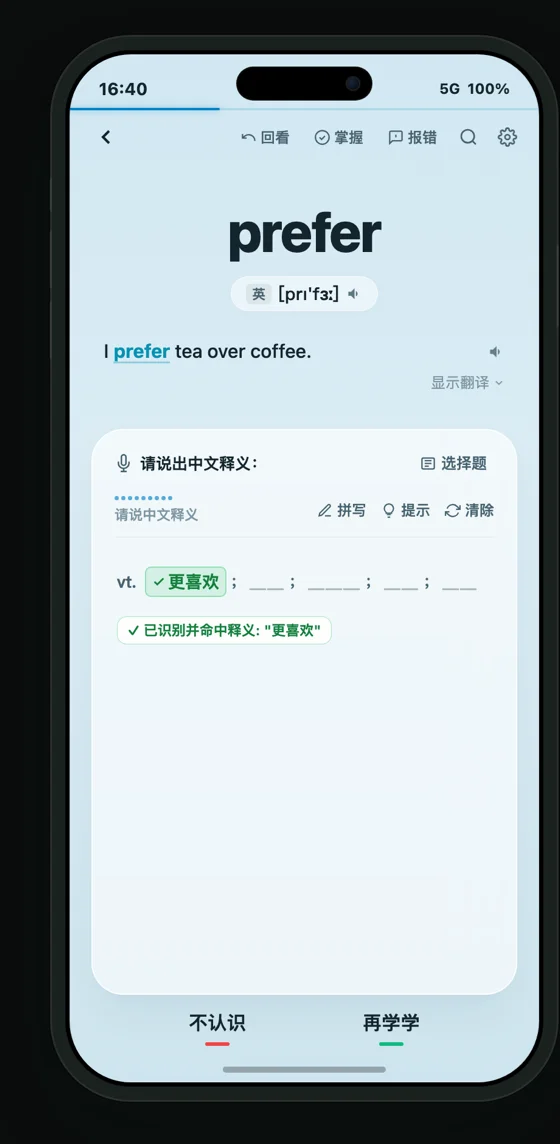
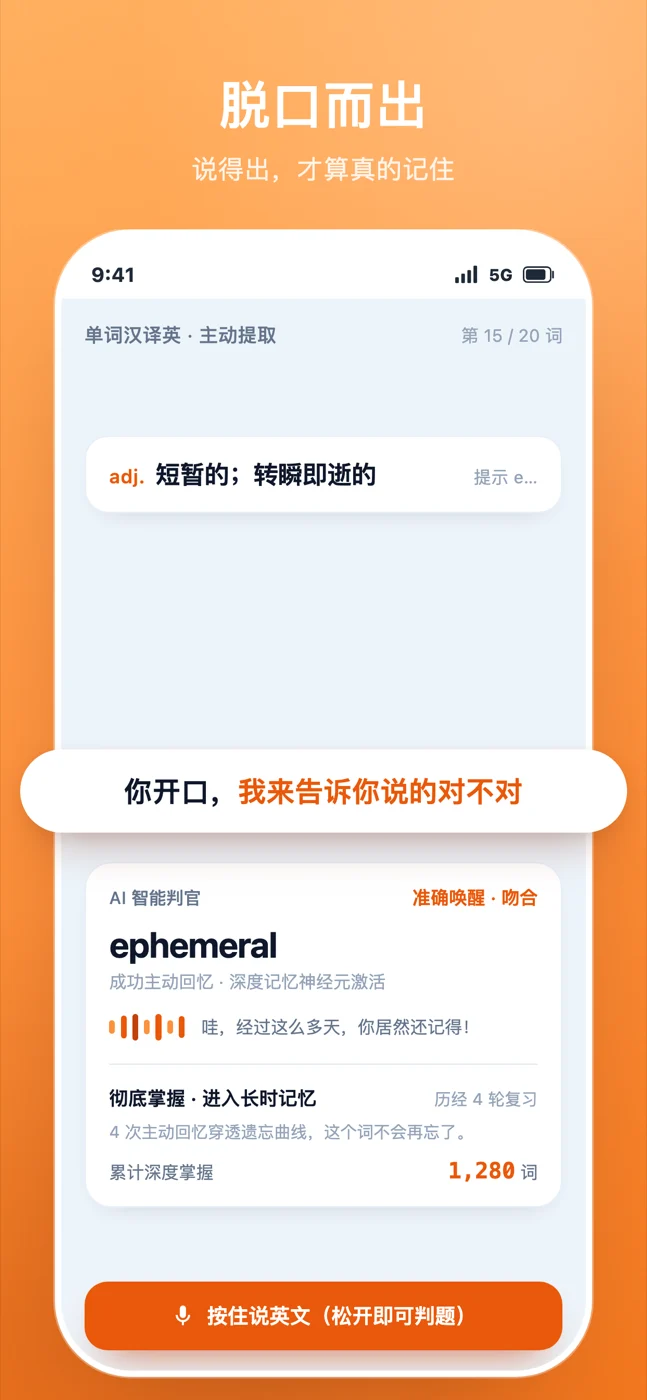
update app name and description copy across Android strings, download page, and site assets

diff --git a/index.html b/index.html
@@ -4,7 +4,7 @@
     <meta charset="UTF-8">
     <meta name="viewport" content="width=device-width, initial-scale=1.0">
     <title>泡泡单词（NNBDC）· 把答案说出来的背单词应用</title>
-    <meta name="description" content="泡泡单词不给你四个选项猜：看中文说英文、看英文说意思，答案得靠嘴巴说出来，App 逐音比对你的发音；再由 FSRS-5 记忆模型在遗忘临界点安排复习，背不动时还能和真人在线对战。当前提供 Android 版下载。">
+    <meta name="description" content="泡泡单词不给你四个选项猜：看中文说英文、看英文说意思，答案得靠嘴巴说出来，App 会听你说得对不对；再由 FSRS-5 记忆模型在遗忘临界点安排复习，背不动时还能和真人在线对战。">
     <meta name="keywords" content="泡泡单词,NNBDC,背单词,英语学习,单词记忆,说单词,口语背单词,单词PK,考研单词,四六级单词">
     <link rel="icon" type="image/x-icon" href="favicon.ico">
     <link rel="icon" type="image/png" sizes="32x32" href="favicon-32x32.png">
@@ -519,7 +519,7 @@
             <h1>把答案说出来<br><span class="dim">才算真的会</span></h1>
             <p class="hero-sub">
                 看中文说英文、看英文说意思——泡泡单词不给你四个选项猜，<b>答案得靠嘴巴给出来</b>。
-                App 逐音比对你的发音（随包携带 12.6 万词条的发音词典），本地拿不准时再请大模型裁决，同义词和口音都认；
+                App 会听你说得对不对；
                 再由 <b>FSRS-5 记忆模型</b>决定这个词什么时候该回来找你。
             </p>
             <div class="actions">
@@ -534,7 +534,7 @@
                     <img src="site/pk-hall.webp" alt="单词 PK 大厅：按考试场次实时对战" loading="lazy">
                 </div>
                 <div class="shot raised">
-                    <img src="site/speak.webp" alt="说中文释义模式：说出释义后判定「已识别并命中释义」" loading="lazy">
+                    <img src="site/speak.webp" alt="脱口而出：按住说英文，松开即可判题" loading="lazy">
                 </div>
                 <div class="shot">
                     <img src="site/review-distribution.webp" alt="复习分布图：FSRS 记忆曲线调度下的每日待复习量" loading="lazy">
@@ -553,15 +553,14 @@
 
             <div class="feature">
                 <div class="feature-art">
-                    <img src="site/speak.webp" alt="说中文释义模式：说出释义后被判定「已识别并命中释义：更喜欢」" loading="lazy">
+                    <img src="site/speak.webp" alt="脱口而出模式：开口说英文，由 App 判定对错" loading="lazy">
                 </div>
                 <div class="feature-text">
                     <p class="feature-num">开口说</p>
                     <h3>不选 ABCD，把答案说出来</h3>
                     <p>
                         看中文说英文、看英文说意思——答案得靠嘴巴给出来，而不是在四个选项里认脸。
-                        App 会听懂你说了什么：先用随包携带的发音词典（CMU，12.6 万词条）逐音比对，
-                        本地拿不准的时候再请大模型裁决，同义词和口音都认。
+                        App 会听你说得对不对，判你过才算过。
                     </p>
                     <p class="highlight">
                         选择题能靠排除法蒙对，<b>说出来的只有一个答案</b>。
@@ -676,7 +675,7 @@
             </div>
             <div class="platforms-row">
                 <p class="platform">Android<span>现已上线</span></p>
-                <p class="platform">iOS<span>开发中</span></p>
+                <p class="platform">iOS<span>现已上线</span></p>
             </div>
             <div class="actions" style="margin-top:44px">
                 <a href="download.html" class="btn btn-primary">下载 Android 版</a>

diff --git a/download.html b/download.html
@@ -5,7 +5,7 @@
     <meta charset="UTF-8">
     <meta name="viewport" content="width=device-width, initial-scale=1.0">
     <title>下载泡泡单词（NNBDC）· Android 版</title>
-    <meta name="description" content="下载泡泡单词（NNBDC）Android 版安装包。一个词一个意象的背单词应用，支持 Android 5.0 及以上系统。">
+    <meta name="description" content="下载泡泡单词（NNBDC）Android 版安装包。不选 ABCD、把答案说出来的背单词应用，支持 Android 5.0 及以上系统。">
     <meta name="keywords" content="泡泡单词下载,NNBDC,背单词App,Android,牛牛背单词">
     <link rel="icon" type="image/x-icon" href="favicon.ico">
     <link rel="icon" type="image/png" sizes="32x32" href="favicon-32x32.png">
@@ -298,7 +298,7 @@
 <main class="stage">
     <p class="eyebrow">下载</p>
     <h1>下载泡泡单词</h1>
-    <p class="lede">一个词一个意象的背单词应用。当前提供 Android 版，支持 Android 5.0 及以上系统。</p>
+    <p class="lede">把答案说出来的背单词应用。当前提供 Android 版，支持 Android 5.0 及以上系统。</p>
 
     <div class="dl-card">
         <div class="dl-icon">
